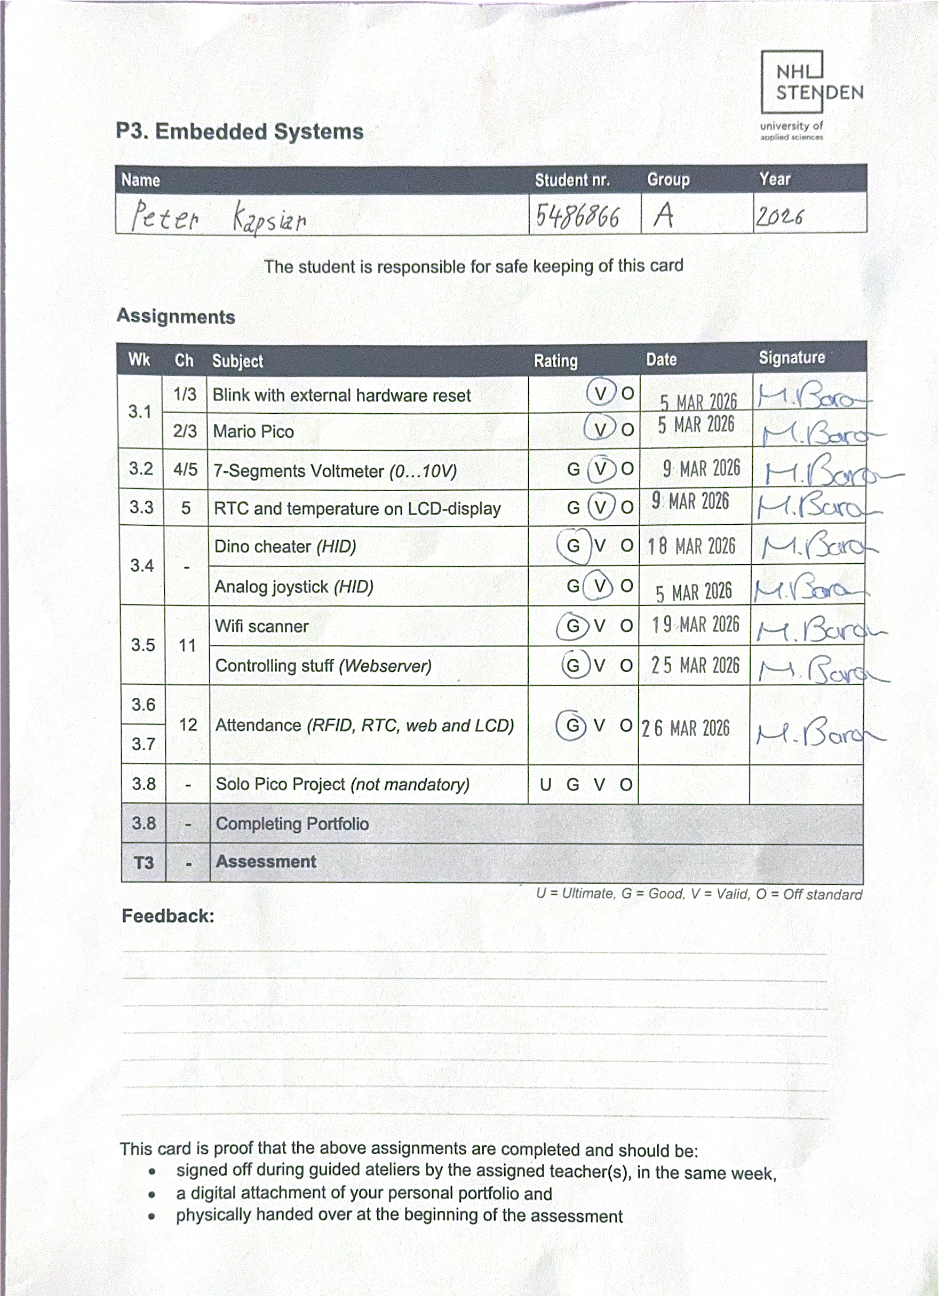
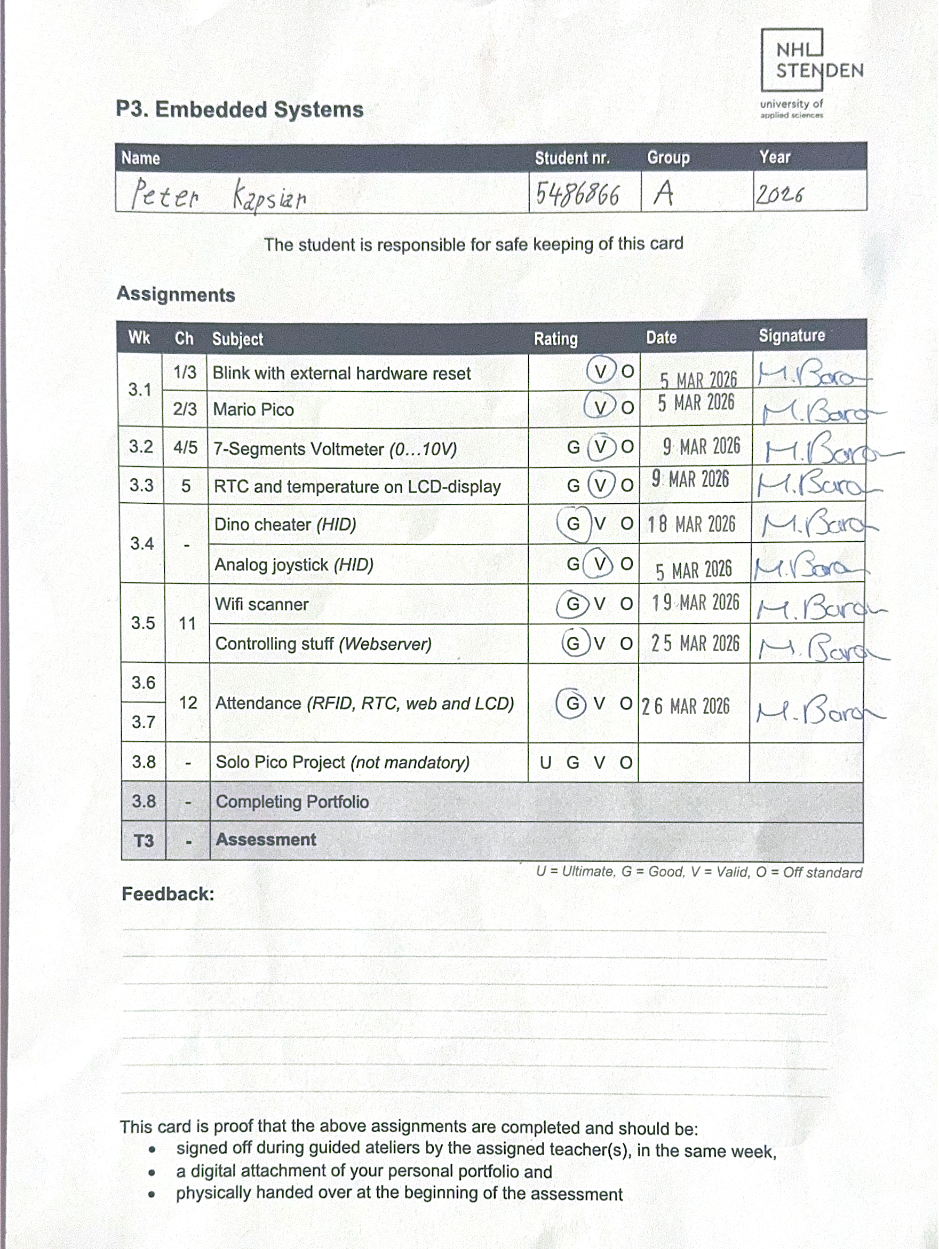
Squashed 'P3-EmbeddedSystems/' changes from abaea67..a6b2b28
a6b2b28 removed pdf portfolio - migrated to master portfolio repository
ced9273 exported portfolio to pdf

git-subtree-dir: P3-EmbeddedSystems
git-subtree-split: a6b2b280159f34c8958717a80101d1105b037ceb

diff --git a/portfolio.md b/portfolio.md
@@ -5,7 +5,7 @@
 
 ## Assignment card
 
-![assignment card](./P3EmbeddedSystemsAssignmentCard.png)
+<img src="./P3EmbeddedSystemsAssignmentCard.png" alt="assignment card" width="620"/>
 
 ## Blink with hardware reset
 
@@ -22,7 +22,7 @@ Components used:
 - push button
 
 ### Schematic
-![schematic](./BlinkWithExternalHardwareReset/schematic.png)
+<img src="./BlinkWithExternalHardwareReset/schematic.png" alt="schematic" style="max-height: 512px;"/>
 
 ### Code
 `main.py`
@@ -44,7 +44,7 @@ while True:
 ```
 
 ### Output
-![breadboard setup](./BlinkWithExternalHardwareReset/output.JPEG)
+<img src="./BlinkWithExternalHardwareReset/output.JPEG" alt="breadboard setup" style="max-height: 512px;"/>
 
 ## Mario pico
 
@@ -88,7 +88,7 @@ for y in range(pyramidSize):
 ```
 
 ### Output
-![console output](/MarioPico/output.png)
+<img src="./MarioPico/output.png" alt="console output" style="max-height: 512px;"/>
 
 ## 7-Segments Voltmeter (0..10V)
 
@@ -108,7 +108,7 @@ Components used:
 - 4x BC547C transistor 
 
 ### Schematic
-![schematic](./7SegmentVoltmeter/schematic.png)
+<img src="./7SegmentVoltmeter/schematic.png" alt="schematic" style="max-height: 512px;"/>
 
 ### Code
 `main.py`
@@ -247,7 +247,7 @@ class Display():
 ```
 
 ### Output
-![breadboard setup](/7SegmentVoltmeter/output.JPEG)
+<img src="./7SegmentVoltmeter/output.JPEG" alt="breadboard setup" style="max-height: 512px;"/>
 
 ## RTC and temperature on LCD-display
 
@@ -263,7 +263,7 @@ Componets used:
 - 1x 16x2 I2C LCD display
 
 ### Schematic
-![schematic](./RTC_temp_LCD/schematic.png)
+<img src="./RTC_temp_LCD/schematic.png" alt="schematic" style="max-height: 512px;"/>
 
 ### Code
 `main.py`
@@ -365,7 +365,7 @@ except KeyboardInterrupt:
 - ds1302 Real Time Clock library: https://github.com/omarbenhamid/micropython-ds1302-rtc/blob/master/ds1302.py
 
 ### Output
-![breadboard setup](/RTC_temp_LCD/output.JPEG) 
+<img src="./RTC_temp_LCD/output.JPEG" alt="breadboard setup" style="max-height: 512px;"/> 
 
 ## Dino cheater (HID)
 
@@ -382,7 +382,7 @@ Components used:
 - 1x push button
 
 ### Schematic
-![schematic](./DinoCheater/schematic.png)
+<img src="./DinoCheater/schematic.png" alt="schematic" style="max-height: 512px;"/>
 
 ### Code
 `main.py`
@@ -523,7 +523,7 @@ while True:
 - Adafruit HID keycode library: https://github.com/adafruit/Adafruit_CircuitPython_HID/blob/main/adafruit_hid/keycode.py
 
 ### Output
-![breadboard setup](./DinoCheater/output.JPEG)
+<img src="./DinoCheater/output.JPEG" alt="breadboard setup" style="max-height: 512px;"/>
 
 ## Analog joystick (HID)
 
@@ -539,7 +539,7 @@ Components used:
 - 1x push button
 
 ### Schematic
-![schematic](./AnalogJoystick/schematic.png)
+<img src="./AnalogJoystick/schematic.png" alt="schematic" style="max-height: 512px;"/>
 
 ### Code
 `main.py`
@@ -630,7 +630,7 @@ while True:
 - Adafruit HID keycode library: https://github.com/adafruit/Adafruit_CircuitPython_HID/blob/main/adafruit_hid/keycode.py
 
 ### Output
-![breadboard setup](./AnalogJoystick/output.JPEG)
+<img src="./AnalogJoystick/output.JPEG" alt="breadboard setup" style="max-height: 512px;"/>
 
 ## WiFi scanner
 
@@ -802,7 +802,7 @@ PASSWORD = "YOUR_NET_PASS"
 ```
 
 ### Output
-![breadboard setup](./WiFiScanner/output.png)
+<img src="./WiFiScanner/output.png" alt="breadboard setup" style="max-height: 512px;"/>
 
 ## Controlling stuff (Webserver)
 
@@ -820,7 +820,7 @@ Components used:
 - 2x 10kΩ resistor
 
 ### Schematic
-![schematic](./ControllingStuff/schematic.png)
+<img src="./ControllingStuff/schematic.png" alt="schematic" style="max-height: 512px;"/>
 
 ### Code
 `main.py`
@@ -989,8 +989,8 @@ def serve_file(conn, filepath, status='200 OK', content_type='text/html'):
 ```
 
 ### Output
-![breadboard setup](./ControllingStuff/output.JPEG)
-![web interface](./ControllingStuff/output2.png)
+<img src="./ControllingStuff/output.JPEG" alt="breadboard setup" style="max-height: 512px;"/>
+<img src="./ControllingStuff/output2.png" alt="web interface" style="max-height: 512px;"/>
 
 ## Attendance (RFID, RTC, web and LCD)
 
@@ -1012,7 +1012,7 @@ Components used:
 - 1x RGB LED module (module just adds 3x resistors for convenience)
 
 ### Schematic
-![schematic](./Attendance/schematic.png)
+<img src="./Attendance/schematic.png" alt="schematic" style="max-height: 512px;"/>
 
 ### Code
 `main.py`
@@ -1677,5 +1677,5 @@ class AttendanceDB:
 - RC522 RFID reader library: https://github.com/danjperron/micropython-mfrc522/blob/master/mfrc522.py
 
 ### Output
-![breadboard setup](./Attendance/output.JPEG)
-![web interface](./Attendance/output2.png)
+<img src="./Attendance/output.JPEG" alt="breadboard setup" style="max-height: 512px;"/>
+<img src="./Attendance/output2.png" alt="web interface" style="max-height: 512px;"/>
